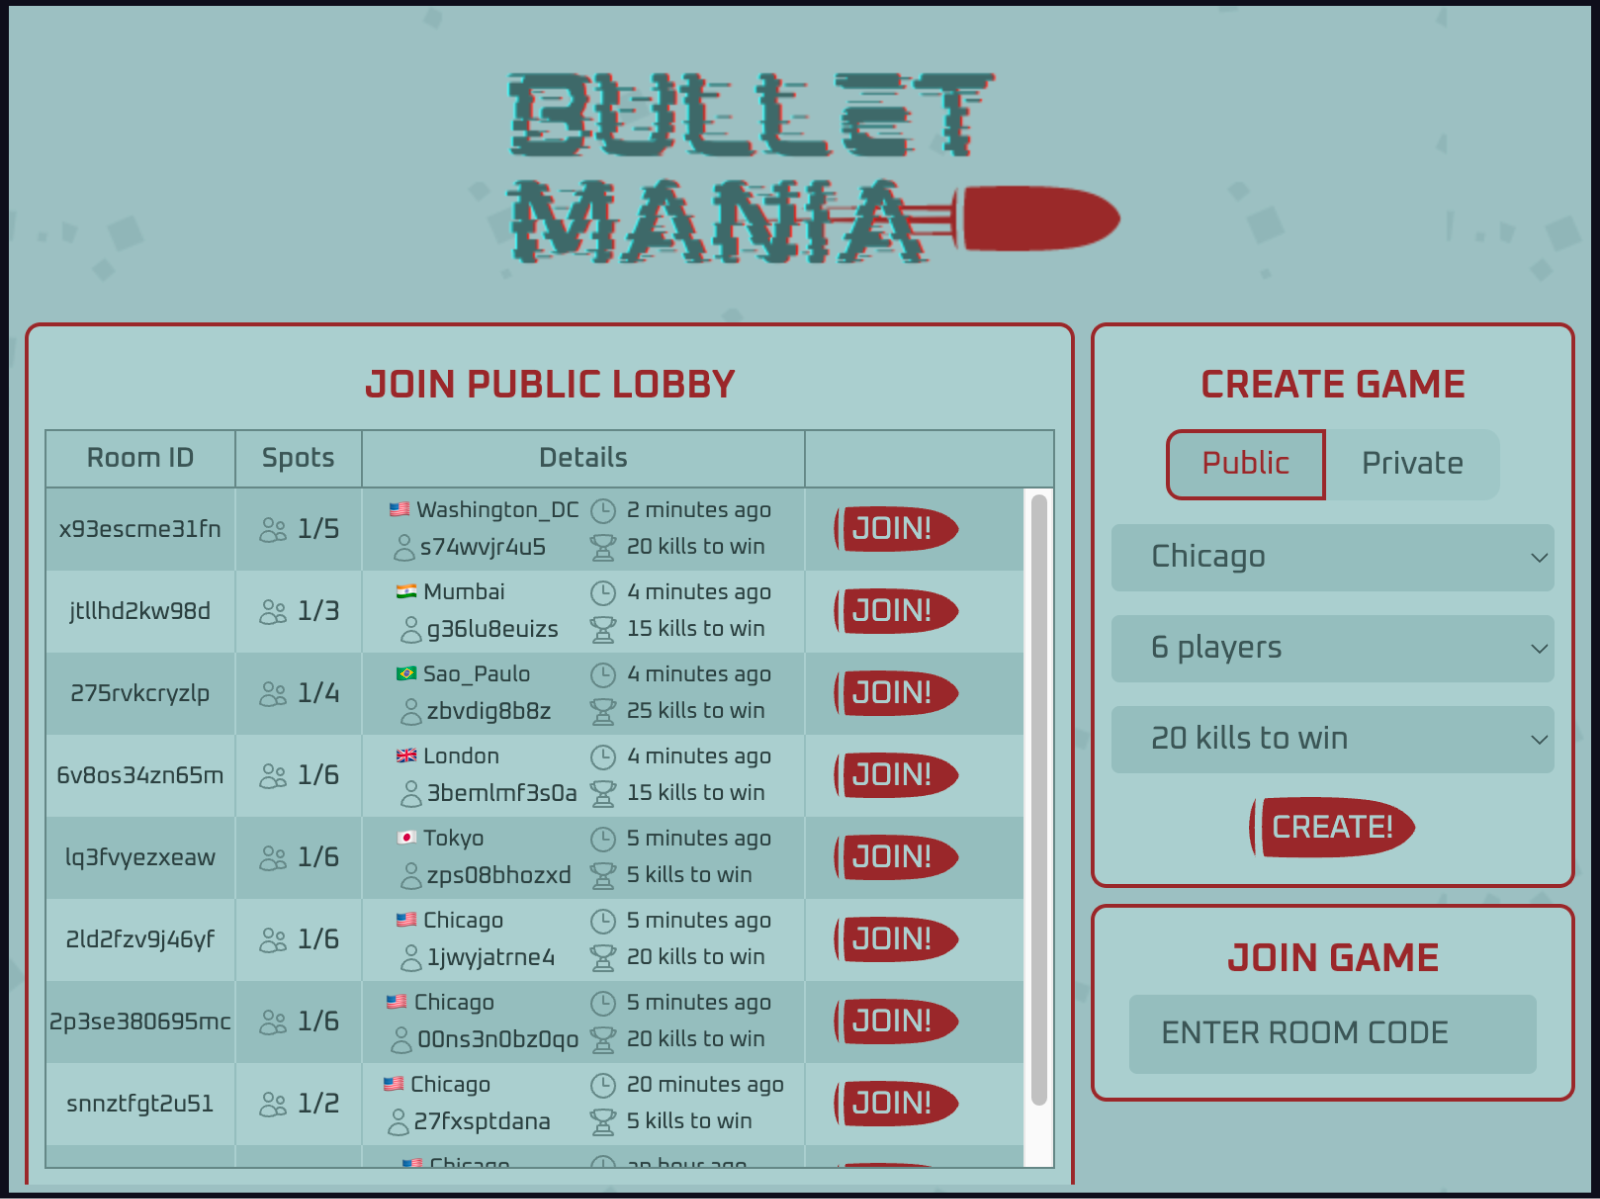
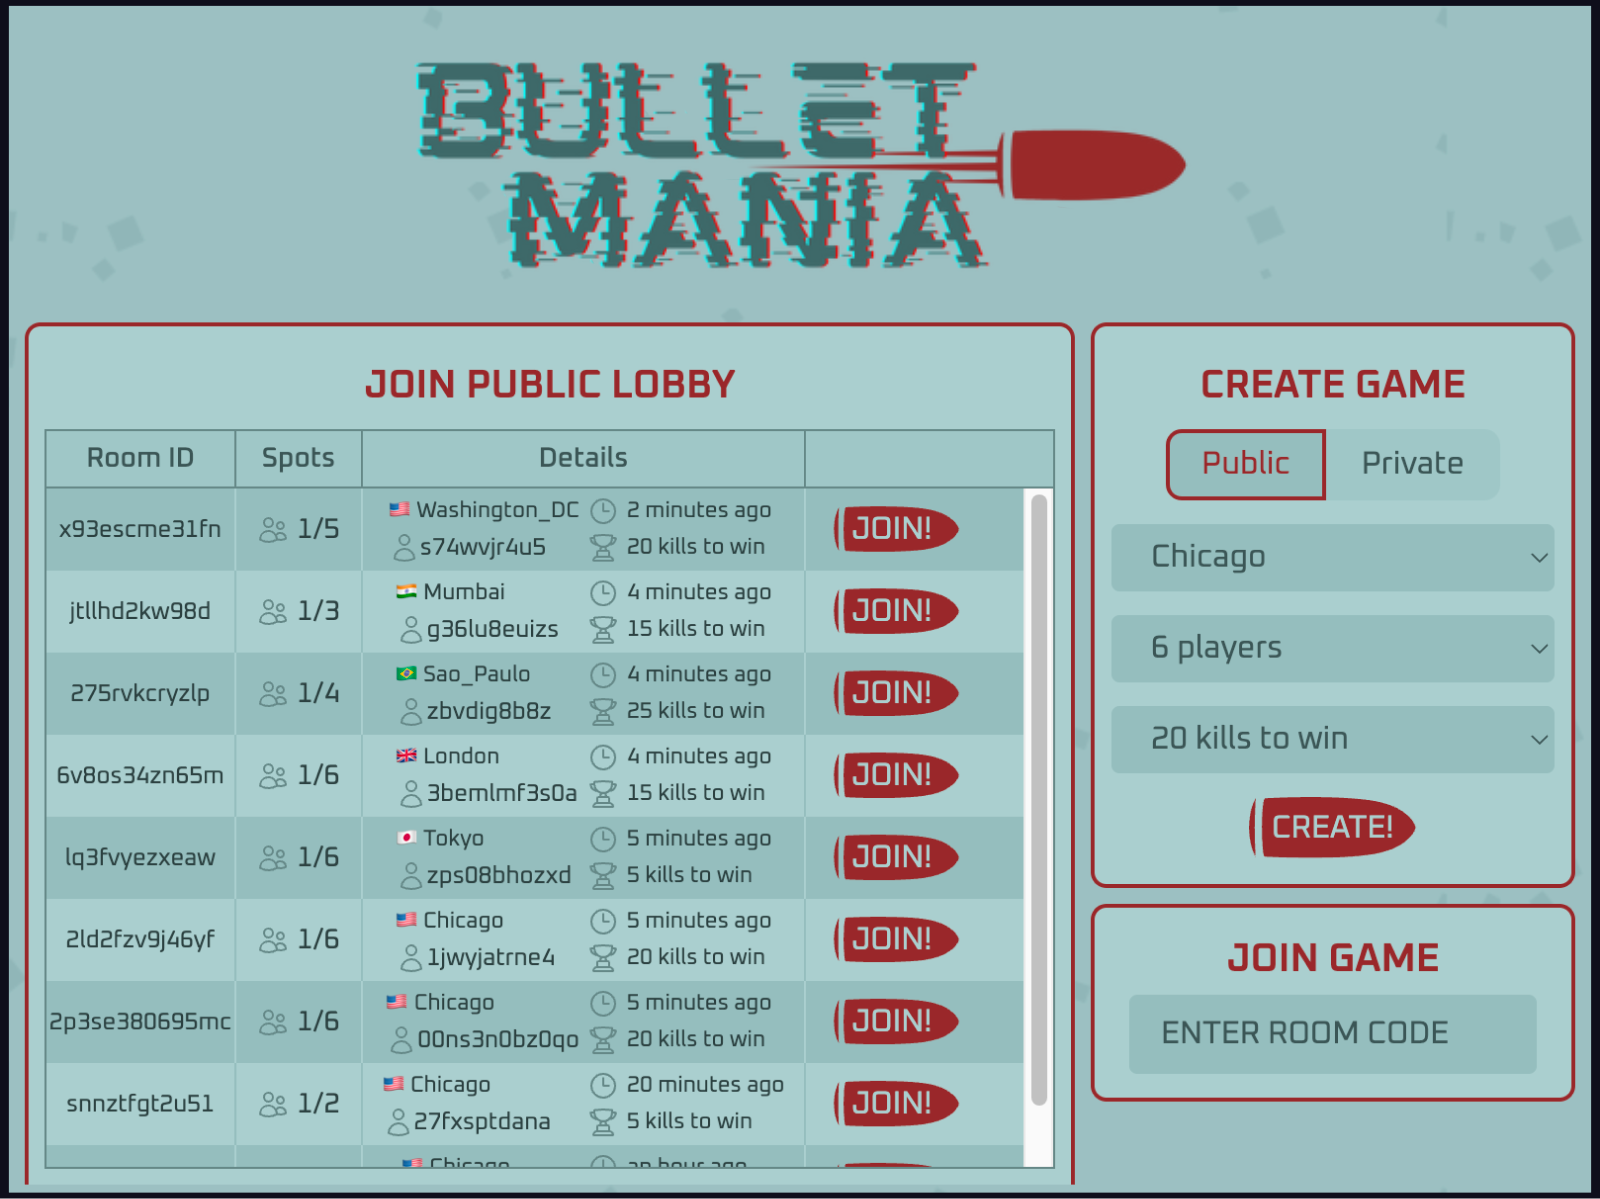
some content changes and also fixing some styling

Changed region(s): [[0.25, 0.0309, 0.75, 0.2469]]

diff --git a/client/src/components/ExplanationText.tsx b/client/src/components/ExplanationText.tsx
@@ -6,7 +6,6 @@ import { ArrowLongRightIcon } from "@heroicons/react/24/solid";
 
 import "./rsh-style.css";
 import GitHubIcon from "../assets/github.svg";
-import GithubIcon from "../assets/github.svg";
 
 import { GameConfig } from "./GameComponent";
 
@@ -16,18 +15,22 @@ SyntaxHighlighter.registerLanguage("javascript", js);
 export function ExplanationText() {
   return (
     <div className={"mt-6"} style={{ width: GameConfig.width }}>
+      <h1 style={h1Style}>Learn how we built Bullet Mania</h1>
+      <Link href={"https://github.com/hathora/topdown-shooter/"} icon={GitHubIcon}>
+        Bullet Mania source code
+      </Link>
+      <p style={textStyle}>
+        We built <strong>Bullet Mania</strong> to showcase how simple it is to build and scale a multiplayer game on{" "}
+        <Link href={"https://hathora.dev/docs"}>Hathora Cloud</Link>. Hathora Cloud works well for both new and existing
+        multiplayer games. To learn more about deploying your multiplayer game on Hathora Cloud, check out our{" "}
+        <Link href={"https://hathora.dev/docs/get-started"}>10-minute Get Started guide</Link>.
+      </p>
       <h1 style={h1Style}>What is happening?</h1>
-      <p style={pStyle}>
-        We built <strong>Bullet Mania</strong> to showcase how to build and scale a multiplayer game on{" "}
-        <Link href={"https://hathora.dev/docs/concepts/room-lifecycle"}>Hathora</Link>. Bullet Mania is{" "}
-        <strong>fully open-source</strong>, source code is available{" "}
-        <Link href={"https://github.com/hathora/topdown-shooter"}>here</Link>.
+      <p style={textStyle}>
+        When a player <NavLink headingId={"createLobby"}>creates a public or private room</NavLink>, a game server is
+        dynamically provisioned by Hathora Cloud in the region specified.
       </p>
-      <p style={pStyle}>
-        When a player creates a public or private <Link href={"https://hathora.dev/docs"}>room</Link> via the Hathora
-        Lobby Service, a game server is dynamically provisioned in the region specified.
-      </p>
-      <p style={pStyle}>
+      <p style={textStyle}>
         <strong>Important notes</strong>
       </p>
       <ul className={"font-hathoraBody text-neutralgray-200 list-disc ml-6"}>
@@ -41,7 +44,7 @@ export function ExplanationText() {
         <li className={"mt-2"}>Hathora has no fixed costs, pricing is based on active compute usage</li>
       </ul>
       <h1 style={h1Style}>Why is it good?</h1>
-      <p style={pStyle}>As seen in Bullet Mania your players will get good ping times because Hathora has:</p>
+      <p style={textStyle}>As seen in Bullet Mania your players will get good ping times because Hathora has:</p>
       <ul className={"font-hathoraBody text-neutralgray-200 list-decimal ml-6"}>
         <li className={"mt-1"}>
           <strong>multi-region server availability</strong> to get players a server closest to them
@@ -50,7 +53,7 @@ export function ExplanationText() {
           <strong>private edge network</strong> that avoids network congestion and ensures an optimal path to the server
         </li>
       </ul>
-      <p style={pStyle}>
+      <p style={textStyle}>
         You get improved performance while reducing operational complexity because you don’t have to worry about:
       </p>
       <ul className={"font-hathoraBody text-neutralgray-200 list-decimal ml-6"}>
@@ -59,12 +62,12 @@ export function ExplanationText() {
         <li className={"mt-1"}>Paying for idle capacity to manage demand spikes</li>
       </ul>
       <h1 style={h1Style}>How to use Hathora for your game?</h1>
-      <p style={pStyle}>
+      <p style={textStyle}>
         You’ll need some middleware that can request capacity on Hathora and share the connection information with the
         right players. If you don’t have an existing Lobby/Matchmaking service, Hathora offers a lightweight Lobby
         Service to spin up and route players to the correct room.
       </p>
-      <p style={pStyle}>With our Lobby Service, integration just takes a few steps:</p>
+      <p style={textStyle}>With our Lobby Service, integration just takes a few steps:</p>
       <ul className={"font-hathoraBody list-decimal ml-6"}>
         <li className={"mt-1 text-neutralgray-400 hover:text-neutralgray-200 font-semibold"}>
           <NavLink className={"text-hathoraBrand-50"} headingId={"authenticatePlayers"}>
@@ -111,7 +114,7 @@ export function ExplanationText() {
       <h1 id={"authenticatePlayers"} style={h1Style}>
         Authenticate Players
       </h1>
-      <p style={pStyle}>Use Hathora’s Auth Client to generate a unique token for players using Google login.</p>
+      <p style={textStyle}>Use Hathora’s Auth Client to generate a unique token for players using Google login.</p>
       <p className={"text-neutralgray-400 mt-4 mb-2 ml-1 font-hathoraBody"}>
         Import auth client from <Code>@hathora/hathora-cloud-sdk</Code>
       </p>
@@ -136,7 +139,7 @@ let token = await authClient.loginNickname(this.appId,{nickname:"name"}).token;`
       <h1 id={"createLobby"} style={h1Style}>
         Create public and private lobbies
       </h1>
-      <p style={pStyle}>There are 3 types of lobbies that a player can create:</p>
+      <p style={textStyle}>There are 3 types of lobbies that a player can create:</p>
       <ul className={"font-hathoraBody text-neutralgray-200 list-decimal ml-6"}>
         <li className={"mt-1"}>
           <strong>Public</strong>: it will be returned the roomId in the public lobby list and any player can join
@@ -148,7 +151,7 @@ let token = await authClient.loginNickname(this.appId,{nickname:"name"}).token;`
           <strong>Local</strong>: for testing with a server running locally
         </li>
       </ul>
-      <p style={pStyle}>
+      <p style={textStyle}>
         If you have any specific user input you need to take in to initial your game state then pass it in through the{" "}
         <Code>initialConfig</Code> object. In Bullet Mania, for example, <Code>initialConfig</Code> includes:
       </p>
@@ -168,7 +171,7 @@ let token = await authClient.loginNickname(this.appId,{nickname:"name"}).token;`
       <h1 id={"listPublicLobbies"} style={h1Style}>
         Fetch all public lobbies
       </h1>
-      <p style={pStyle}>
+      <p style={textStyle}>
         Retrieve a list of active public lobbies so players can coordinate which game to join. The region parameter is
         optional to filter the list by.
       </p>
@@ -180,12 +183,12 @@ let token = await authClient.loginNickname(this.appId,{nickname:"name"}).token;`
       <h1 id={"connectToLobby"} style={h1Style}>
         Connect to a public or private lobby
       </h1>
-      <p style={pStyle}>
+      <p style={textStyle}>
         When a player requests to join, you can retrieve the lobby data to determine state. State is an object that
         stores the game state set by the server and is passed to all players. In Bullet Mania, the game checks to see if
         there’s space for another player before sending connection information.
       </p>
-      <p style={pStyle}>See how we implemented it for Bullet Mania:</p>
+      <p style={textStyle}>See how we implemented it for Bullet Mania:</p>
       <ul className={"font-hathoraBody text-neutralgray-200 list-disc ml-6"}>
         <li className={"mt-2"}>
           <Link
@@ -224,7 +227,7 @@ let token = await authClient.loginNickname(this.appId,{nickname:"name"}).token;`
       <h1 id={"setLobbyState"} style={h1Style}>
         Update lobby state on game server
       </h1>
-      <p style={pStyle}>
+      <p style={textStyle}>
         Use lobby state to pass game data to players. State can only be updated by the server.{" "}
         <Link href={"https://github.com/hathora/topdown-shooter/blob/develop/server/server.ts#L481"} icon={GitHubIcon}>
           See how Bullet Mania uses lobby state
@@ -311,9 +314,9 @@ function CodeBlock(props: { children: string | string[]; className?: string }) {
 function Link(props: { children: React.ReactNode; href: string; className?: string; icon?: string }) {
   return (
     <a
-      className={`font-hathoraBody text-hathoraBrand-500 hover:underline ${props.icon ? "flex items-center" : ""} ${
-        props.className
-      }`}
+      className={`font-hathoraBody text-hathoraBrand-500 hover:underline ${
+        props.icon ? "inline-flex items-center rounded -ml-2 px-2 py-1 hover:bg-neutralgray-650" : "inline-block"
+      } ${props.className}`}
       href={props.href}
       target={"_blank"}
     >
@@ -385,7 +388,7 @@ const h2Style = {
   marginTop: "20px",
 };
 
-const pStyle = {
+const textStyle = {
   marginTop: "16px",
   fontFamily: "Lato",
   fontSize: "16px",

diff --git a/client/src/components/HathoraLogo.tsx b/client/src/components/HathoraLogo.tsx
@@ -2,7 +2,7 @@ import React from "react";
 
 export function HathoraLogo() {
   return (
-    <svg width="230" height="40" viewBox="0 0 230 40" fill="none" xmlns="http://www.w3.org/2000/svg">
+    <svg width="207" height="36" viewBox="0 0 230 40" fill="none" xmlns="http://www.w3.org/2000/svg">
       <path
         d="M97.2808 36.4656C95.7885 36.4871 94.3074 36.2057 92.9278 35.6386C91.683 35.1302 90.6186 34.2637 89.8705 33.1497C89.1033 31.9685 88.7137 30.5833 88.7532 29.1769C88.6979 27.8025 89.0899 26.447 89.8705 25.3123C90.6631 24.2257 91.7546 23.3908 93.0131 22.9085C94.4569 22.338 95.9994 22.057 97.5524 22.0815H104.226V20.6671C104.248 20.126 104.162 19.586 103.971 19.0788C103.78 18.5717 103.49 18.1078 103.116 17.7145C102.34 16.9416 101.261 16.6015 99.5932 16.6015C98.3194 16.512 97.0595 16.9101 96.0704 17.7145C95.3102 18.4792 94.7737 19.4359 94.5185 20.4816L89.6145 18.8198C89.9665 17.5555 90.5979 16.3857 91.4626 15.3961C92.3272 14.4064 93.4032 13.6219 94.6116 13.1001C96.1918 12.4303 97.9001 12.1137 99.6164 12.1727C102.581 12.1727 104.994 12.9456 106.662 14.3909C108.33 15.8363 109.254 18.0778 109.254 20.8526V29.803C109.254 30.7228 109.719 31.1865 110.55 31.1865H112.497V35.824H108.788C107.795 35.8607 106.818 35.567 106.01 34.9893C105.644 34.7271 105.351 34.3771 105.157 33.9718C104.963 33.5664 104.875 33.1188 104.901 32.6705V32.5778H104.125C103.878 33.1268 103.568 33.6455 103.201 34.1236C102.623 34.8001 101.892 35.33 101.067 35.6695C99.8999 36.2686 98.5919 36.5435 97.2808 36.4656ZM98.2042 32.1295C98.9771 32.1773 99.7518 32.0714 100.483 31.8179C101.215 31.5645 101.888 31.1685 102.464 30.6532C103.026 30.1419 103.468 29.5127 103.756 28.811C104.045 28.1093 104.173 27.3526 104.132 26.5954V26.1316H97.8318C96.8508 26.1206 95.8871 26.3887 95.0539 26.9045C94.6956 27.1432 94.4109 27.4762 94.2314 27.8665C94.052 28.2567 93.9848 28.689 94.0374 29.1151C94.0262 29.547 94.1216 29.9751 94.315 30.3618C94.5085 30.7485 94.7941 31.0821 95.147 31.3334C96.0539 31.9186 97.1258 32.1977 98.2042 32.1295Z"
         fill="white"

diff --git a/client/src/app.tsx b/client/src/app.tsx
@@ -86,9 +86,14 @@ function App() {
     <GoogleOAuthProvider clientId={process.env.GOOGLE_AUTH_CLIENT_ID ?? ""}>
       <div className="py-5" style={{ backgroundColor: "#0E0E1B" }}>
         <div className="w-fit mx-auto">
-          <div className={"flex justify-center items-end"}>
-            <HathoraLogo />
-            <div className={"ml-4 text-hathoraSecondary-400 text-xl text-baseline"}>SAMPLE GAME</div>
+          <div className={"flex justify-center items-center"}>
+            <div className={"flex justify-center items-end"}>
+              <HathoraLogo />
+              <div className={"mx-3 text-hathoraSecondary-400 text-lg text-baseline"}>PRESENTS</div>
+            </div>
+            <div className={""}>
+              <img src="bullet_mania_logo_light.png" className="h-[60px]" alt="logo" />
+            </div>
           </div>
           <div className={"mt-4"} style={{ width: GameConfig.width, height: GameConfig.height }}>
             {failedToConnect ? (

diff --git a/client/src/components/LobbySelector.tsx b/client/src/components/LobbySelector.tsx
@@ -25,7 +25,7 @@ export function LobbySelector(props: LobbySelectorProps) {
         </div>
       )}
       <div className={"flex items-center justify-center mt-6 mb-4"}>
-        <img src="lobby_header.png" alt="logo" className="" />
+        <img src="bullet_mania_logo.png" alt="logo" className="" />
       </div>
       <div className="flex overflow-hidden h-full w-full justify-between">
         <div className="grow">

diff --git a/client/tailwind.config.js b/client/tailwind.config.js
@@ -16,6 +16,7 @@ module.exports = {
           500: "#9fc7c7",
           600: "#94bebe",
           700: "#648888",
+          750: "#576E73",
           800: "#3b5656",
           900: "#2b4141",
         },
